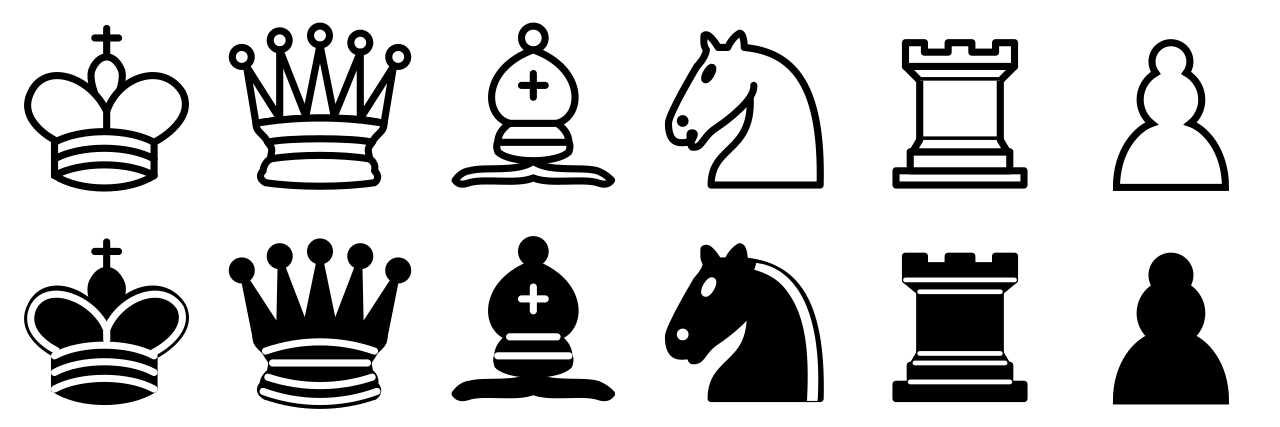
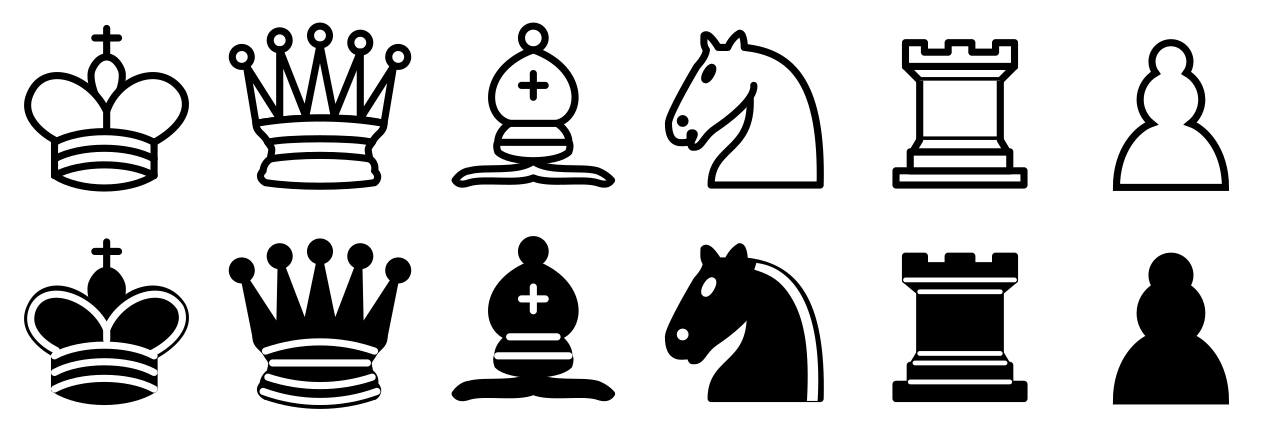
draw the pieces

diff --git a/js/board.js b/js/board.js
@@ -8,19 +8,26 @@ export class Board {
     canvas = null;
     cells = new Array();
     ctx = null;
+    pieces_img = null;
 
-    constructor(canvas) {
+    constructor(canvas, pieces_img) {
         canvas = canvas instanceof HTMLCanvasElement ? canvas : null;
-
-        var filesArr = Object.keys(FILES);
+        pieces_img = pieces_img instanceof HTMLImageElement ? pieces_img : null;
 
         if(canvas == null) {
             console.error('Board.constructor: invalid canvas element');
             return;
         }
+        if(pieces_img == null) {
+            console.error('Board.constructor: invalid pieces_img element');
+            return;
+        }
+
+        var filesArr = Object.keys(FILES);
 
         this.canvas = canvas;
         this.ctx = this.canvas.getContext('2d');
+        this.pieces_img = pieces_img;
 
         for(var row = 0; row < NUMRANKS; row++) {
             for(var col = 0; col < filesArr.length; col++) {
@@ -64,21 +71,21 @@ export class Board {
             this.ctx.beginPath();
             this.ctx.fillStyle = cell.isLight ? lightCol : darkCol;
 
-            // TEMPORARY
+            /*
             if(cell.isOccupied()) { 
                 if(cell.piece.side == SIDES.black)
                     this.ctx.fillStyle = cell.isLight ? '#900' : '#300'; 
                 else
                     this.ctx.fillStyle = cell.isLight ? '#3269a8' : '#123075'; 
             }
-            // ./TEMPORARY
+            */
 
             this.ctx.fillRect(xPos, yPos, cellWidth, cellWidth);
             this.ctx.closePath();
 
-            // TOOD: draw any pieces occupying this cell...
+            // draw any pieces occupying this cell...
             if(cell.isOccupied()) {
-                cell.piece.draw(this.ctx, xPos, yPos);
+                cell.piece.draw(this.pieces_img, this.ctx, xPos, yPos, cellWidth);
             }
         }
 

diff --git a/js/main.js b/js/main.js
@@ -12,6 +12,7 @@ import { Team } from './team.js';
 // runtime globals
 var canvas = document.getElementById('chess_board');
 var match = null;
+var pieces_img = document.getElementById('pieces_img');
 
 // testing devices
 var advBtn = document.getElementById('advance_btn');
@@ -19,7 +20,7 @@ var statusBox = document.getElementById('test_status');
 var step = 0;
 
 function init() {
-    match = new Match(new Board(canvas), new Team(SIDES.white), new Team(SIDES.black));
+    match = new Match(new Board(canvas, pieces_img), new Team(SIDES.white), new Team(SIDES.black));
     match.board.draw();
     
     console.log('init complete...');
@@ -88,5 +89,7 @@ function advanceTest(e) {
 /**
  * Start
  */
-init();
-advBtn.onclick = advanceTest;
+window.onload = function() {
+    init();
+    advBtn.onclick = advanceTest;
+};

diff --git a/js/pieces/_piece.js b/js/pieces/_piece.js
@@ -1,4 +1,4 @@
-import { SIDES, PIECETYPE } from '../globals.js';
+import { SIDES, PIECETYPE, PIECESPRITEWIDTH } from '../globals.js';
 import { Cell } from '../cell.js';
 
 /**
@@ -31,6 +31,16 @@ export class Piece {
 
     canMove() {
         console.error("Piece.canMove: canMove has not been implemented!");
+    }
+
+    draw(img, ctx, xPos, yPos, cellWidth) {
+        var clipX = (img.naturalWidth - PIECESPRITEWIDTH) - (this.type * PIECESPRITEWIDTH) + PIECESPRITEWIDTH,
+            clipY = this.side == SIDES.white ? 0 : PIECESPRITEWIDTH,
+            clipWidth = PIECESPRITEWIDTH,
+            clipHeight = PIECESPRITEWIDTH;
+
+        ctx.drawImage(img, clipX, clipY, clipWidth, clipHeight, 
+            xPos, yPos, cellWidth, cellWidth);
     }
 
     getCoord() {

diff --git a/js/globals.js b/js/globals.js
@@ -31,11 +31,12 @@ export const FILES = {
  * Colors
  */
 export const LIGHTSQCOLOR = '#999';
-export const DARKSQCOLOR = '#121212';
+export const DARKSQCOLOR = '#333';
 export const POSSIBLESQCOLOR = "#0a0";
 
 /**
- * Dimensions
+ * Miscellaenous
  */
 export const NUMRANKS = 8;
 // export const NUMFILES = Object.keys(FILES).length;
+export const PIECESPRITEWIDTH = 214;

diff --git a/index.html b/index.html
@@ -41,7 +41,8 @@
                 </div>
             </div>
         </div>
-        
+
+        <img src="pieces.png" id="pieces_img" />
         <script type="module" src="js/main.js"></script>
     </body>
 </html>

diff --git a/styles.css b/styles.css
@@ -56,6 +56,10 @@ body {
     border: solid 1px #555;
 }
 
+#pieces_img {
+    display: none;
+}
+
 #test_status {
     display: block;
     text-align: center;
